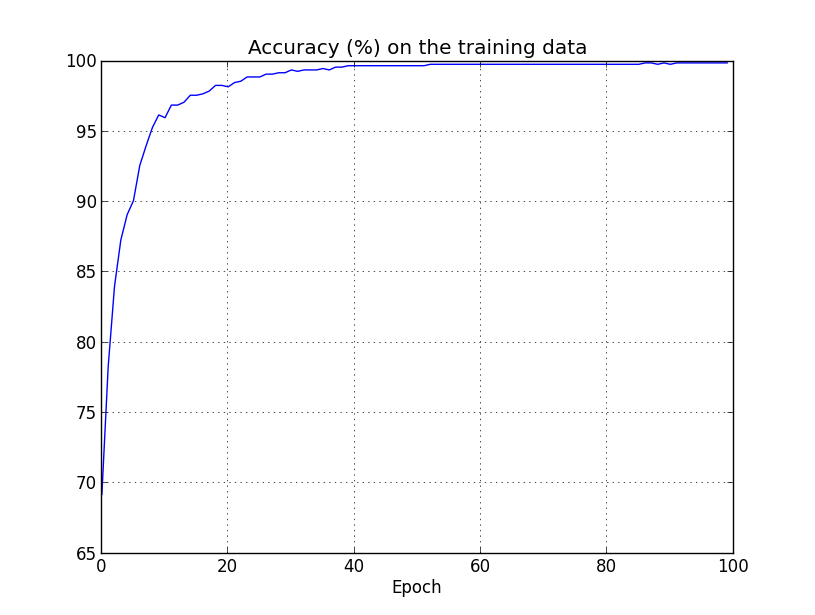
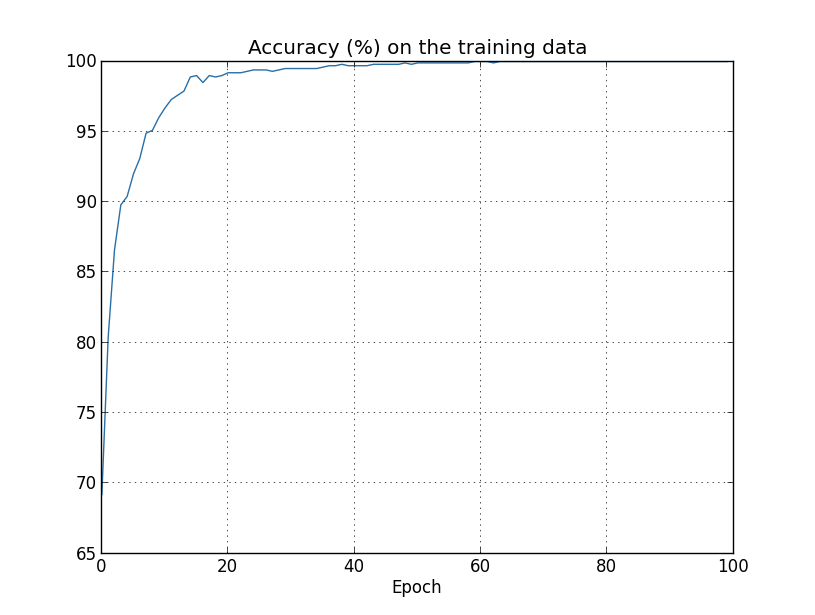
Fixed colors

Changed region(s): [[0.184, 0.0927, 0.8896, 0.2163], [0.1227, 0.3398, 0.1534, 0.7106], [0.1534, 0.2163, 0.184, 0.3398]]

diff --git a/fig/overfitting.py b/fig/overfitting.py
@@ -70,7 +70,8 @@ def make_plots(filename):
 def plot_training_cost(training_cost):
     fig = plt.figure()
     ax = fig.add_subplot(111)
-    ax.plot(np.arange(40, NUM_EPOCHS, 1), training_cost[40:NUM_EPOCHS])
+    ax.plot(np.arange(40, NUM_EPOCHS, 1), training_cost[40:NUM_EPOCHS],
+            color='#2A6EA6')
     ax.set_xlim([40, NUM_EPOCHS])
     ax.grid(True)
     ax.set_xlabel('Epoch')
@@ -81,7 +82,8 @@ def plot_test_accuracy(test_accuracy):
     fig = plt.figure()
     ax = fig.add_subplot(111)
     ax.plot(np.arange(40, NUM_EPOCHS, 1), 
-            [accuracy/100.0 for accuracy in test_accuracy[40:NUM_EPOCHS]])
+            [accuracy/100.0 for accuracy in test_accuracy[40:NUM_EPOCHS]],
+            color='#2A6EA6')
     ax.set_xlim([40, NUM_EPOCHS])
     ax.grid(True)
     ax.set_xlabel('Epoch')
@@ -91,7 +93,8 @@ def plot_test_accuracy(test_accuracy):
 def plot_test_cost(test_cost):
     fig = plt.figure()
     ax = fig.add_subplot(111)
-    ax.plot(np.arange(0, NUM_EPOCHS, 1), test_cost[0:NUM_EPOCHS])
+    ax.plot(np.arange(0, NUM_EPOCHS, 1), test_cost[0:NUM_EPOCHS],
+            color='#2A6EA6')
     ax.set_xlim([0, NUM_EPOCHS])
     ax.grid(True)
     ax.set_xlabel('Epoch')
@@ -102,7 +105,8 @@ def plot_training_accuracy(training_accuracy):
     fig = plt.figure()
     ax = fig.add_subplot(111)
     ax.plot(np.arange(0, NUM_EPOCHS, 1), 
-            [accuracy/10.0 for accuracy in training_accuracy])
+            [accuracy/10.0 for accuracy in training_accuracy],
+            color='#2A6EA6')
     ax.set_xlim([0, NUM_EPOCHS])
     ax.grid(True)
     ax.set_xlabel('Epoch')
